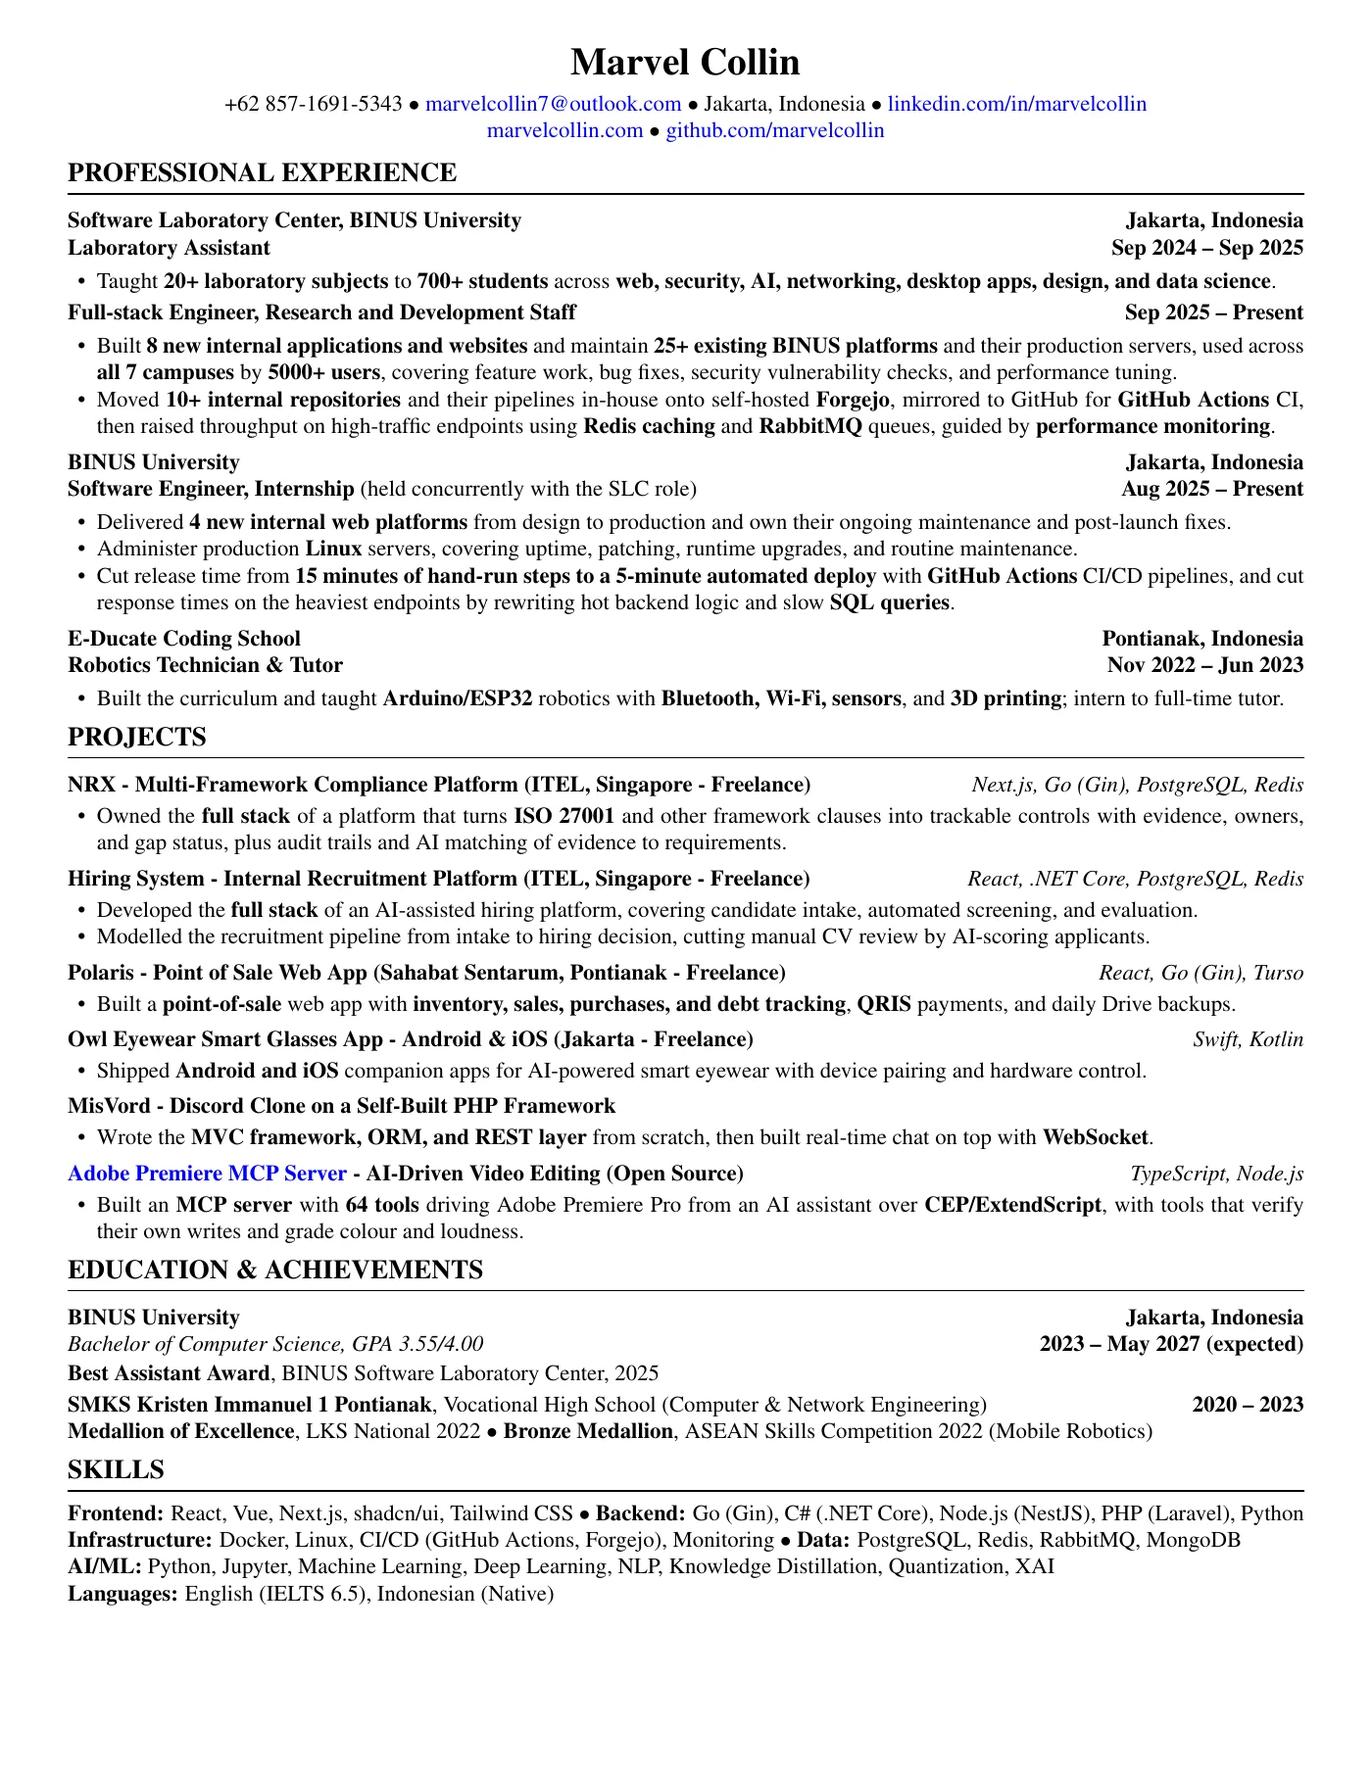
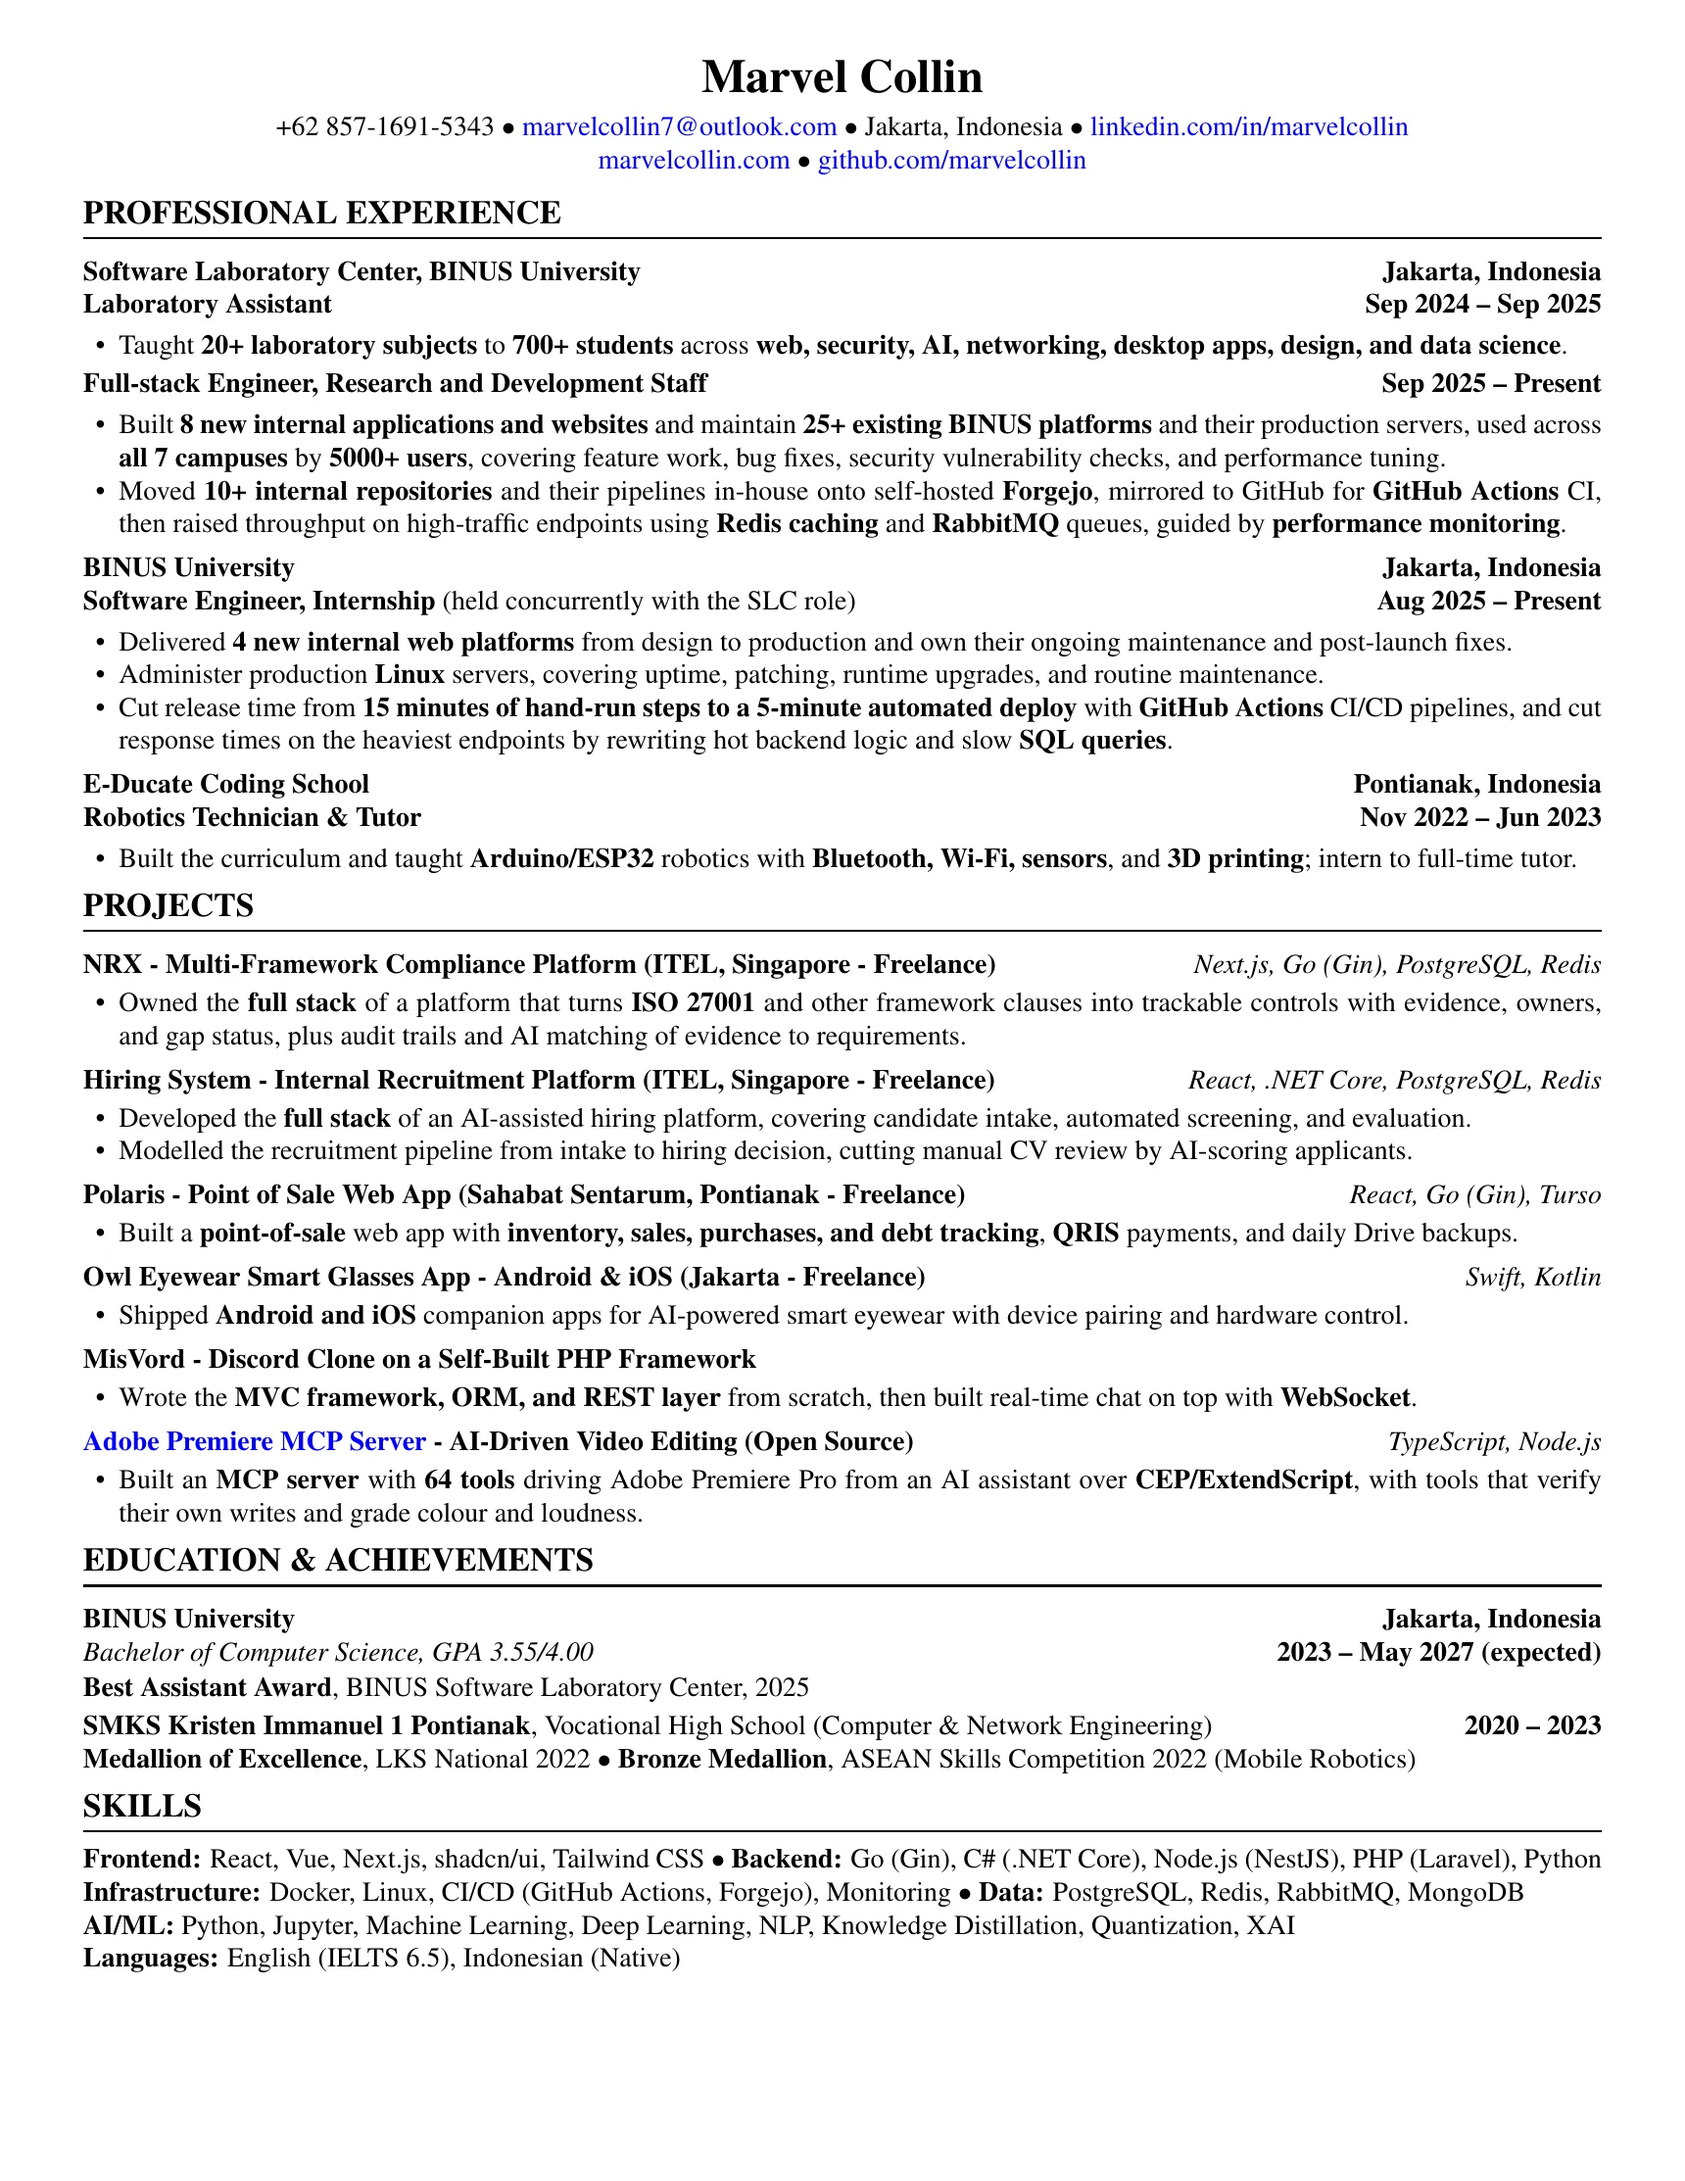
fix: show the cv preview as an image on desktop so browser pdf viewers cannot clip it

diff --git a/src/components/ui/cv-viewer.tsx b/src/components/ui/cv-viewer.tsx
@@ -1,4 +1,4 @@
-import { useEffect, useState, type ReactNode } from 'react';
+import { useState, type ReactNode } from 'react';
 import { FaArrowUpRightFromSquare, FaDownload, FaXmark } from 'react-icons/fa6';
 import { useModal } from '../../hooks/use-modal';
 import { useDismiss } from '../../hooks/use-dismiss';
@@ -6,7 +6,8 @@ import { useDismiss } from '../../hooks/use-dismiss';
 export const CV_PDF = '/cv/marvel-collin-cv.pdf';
 export const CV_FILE = 'Marvel-Collin-CV.pdf';
 const CV_PAGE = '/cv/marvel-collin-cv.webp';
-const DESKTOP = '(min-width: 768px)';
+const CV_PAGE_WIDTH = 1720;
+const CV_PAGE_HEIGHT = 2226;
 
 const ACTION =
   'flex h-10 items-center gap-2 rounded-lg border px-4 font-mono text-[12px] uppercase tracking-[0.08em] transition-colors max-[560px]:px-3';
@@ -14,14 +15,6 @@ const ACTION =
 export function CvViewer({ onClose }: { onClose: () => void }) {
   const boxRef = useModal<HTMLDivElement>(onClose);
   const dismiss = useDismiss<HTMLDivElement>(onClose, '[data-sheet]');
-  const [desktop, setDesktop] = useState(() => matchMedia(DESKTOP).matches);
-
-  useEffect(() => {
-    const media = matchMedia(DESKTOP);
-    const sync = () => setDesktop(media.matches);
-    media.addEventListener('change', sync);
-    return () => media.removeEventListener('change', sync);
-  }, []);
 
   return (
     <div
@@ -65,11 +58,13 @@ export function CvViewer({ onClose }: { onClose: () => void }) {
           </button>
         </header>
         <div className="min-h-0 flex-1 overflow-auto overscroll-contain bg-[#525659]">
-          {desktop ? (
-            <iframe src={CV_PDF + '#view=FitH&navpanes=0'} title="Marvel Collin CV" className="h-full w-full border-0" />
-          ) : (
-            <img src={CV_PAGE} alt="Marvel Collin CV, page one" className="mx-auto block w-full max-w-[860px] bg-white" />
-          )}
+          <img
+            src={CV_PAGE}
+            width={CV_PAGE_WIDTH}
+            height={CV_PAGE_HEIGHT}
+            alt="Marvel Collin CV, page one"
+            className="mx-auto block h-auto w-full max-w-[860px] bg-white"
+          />
         </div>
       </div>
     </div>
